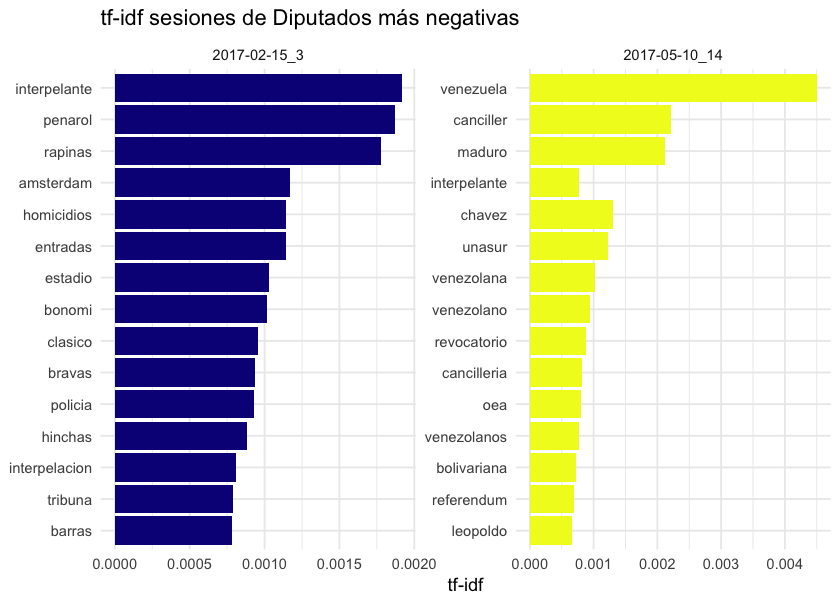
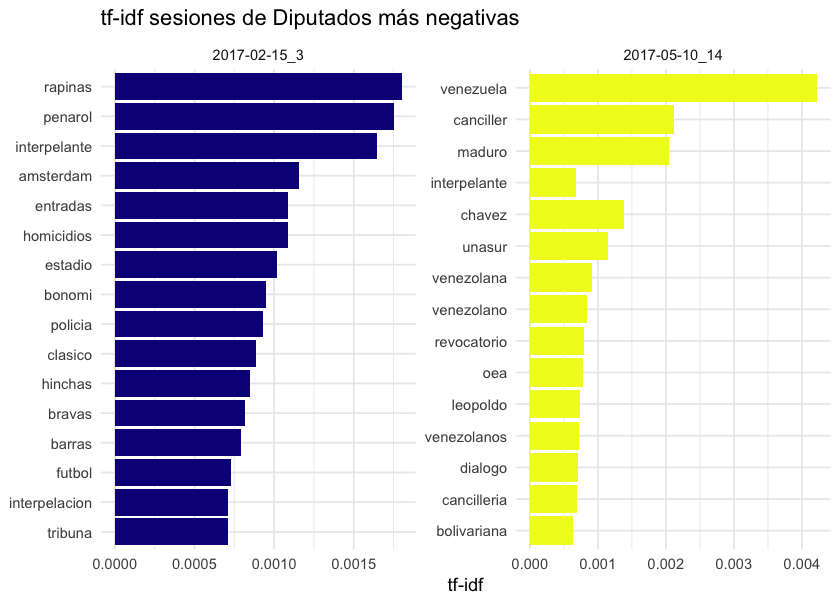
Added loading data and removed "\n" from RDS

diff --git a/_posts/2018-04-08-de-qué-se-habló-en-el-parlamento-uruguayo-desde-2017.md b/_posts/2018-04-08-de-qué-se-habló-en-el-parlamento-uruguayo-desde-2017.md
@@ -13,11 +13,32 @@ En el artículo pasado mostré cómo obtener los textos los Diarios de Sesiones 
   
 
 
-
-
 En el artículo pasado [mostré cómo se pueden obtener los textos de los Diarios de Sesiones]({% post_url 2018-04-03-scrapeando-las-sesiones-parlamentarias-de-uruguay %}). Primero obtuve los archivos pdf haciendo [*web scraping*](https://es.wikipedia.org/wiki/Web_scraping) y después extraje los textos de esos archivos.
 
 Ahora que tengo los datos, en este artículo analizo el texto de las sesiones de Diputados y Senadores desde 2017 usando el paquete [tidytext](https://github.com/juliasilge/tidytext), centrándome en el sentimiento y en identificar los temas tratados.
+
+# Levanto los datos
+
+Levanto los datos que obtuve del scraping de [mi repositorio de GitHub](https://github.com/d4tagirl/uruguayan_parliamentary_session_diary) y les saco los saltos de línea (los dejé porque para algún análisis podría servir tenerlos).
+
+
+```r
+library(dplyr)
+library(stringi)
+
+url_rds_diputados <- 'https://github.com/d4tagirl/uruguayan_parliamentary_session_diary/raw/master/data/pdf_diputados'
+diputados <- readRDS(url(url_rds_diputados)) 
+
+url_rds_senadores <- 'https://github.com/d4tagirl/uruguayan_parliamentary_session_diary/raw/master/data/pdf_senadores'
+senadores <- readRDS(url(url_rds_senadores)) 
+
+# saco los saltos de linea
+diputados <- diputados %>%
+  mutate(pdf = stri_replace_all(pdf, replacement = "", regex = "\\\n"))
+
+senadores <- senadores %>%
+  mutate(pdf = stri_replace_all(pdf, replacement = "", regex = "\\\n"))
+```
 
 # Con qué frecuencia se reunieron?
 
@@ -69,7 +90,6 @@ Primero transformo los datos para generar un dataframe con la cantidad de palabr
 
 
 ```r
-library(dplyr)
 library(tidytext)
 
 # calculo las palabras por mes
@@ -292,7 +312,7 @@ Para senadores:
 
 <img src="/figure/source/de-qué-se-habló-en-el-parlamento-uruguayo-desde-2017/2018-04-08-de-qué-se-habló-en-el-parlamento-uruguayo-desde-2017/unnamed-chunk-7-1.png" style="display: block; margin: auto;" />
 
-Para las sesiones de Senadores no se observa un comportamiento similar al de las de Diputados 🤷
+Para las sesiones de Senadores no se observa un comportamiento similar al de las de Diputados 🤷🏽♂
 
 # Sentimiento en las distintas sesiones
 
@@ -330,15 +350,15 @@ knitr::kable(
 <tbody>
   <tr>
    <td style="text-align:left;"> 2018-03-06_2 </td>
-   <td style="text-align:right;"> 177 </td>
-   <td style="text-align:right;"> 436 </td>
-   <td style="text-align:right;"> 259 </td>
+   <td style="text-align:right;"> 158 </td>
+   <td style="text-align:right;"> 379 </td>
+   <td style="text-align:right;"> 221 </td>
   </tr>
   <tr>
    <td style="text-align:left;"> 2017-12-20_1 </td>
-   <td style="text-align:right;"> 379 </td>
-   <td style="text-align:right;"> 577 </td>
-   <td style="text-align:right;"> 198 </td>
+   <td style="text-align:right;"> 336 </td>
+   <td style="text-align:right;"> 506 </td>
+   <td style="text-align:right;"> 170 </td>
   </tr>
 </tbody>
 </table>
@@ -373,15 +393,15 @@ knitr::kable(
 <tbody>
   <tr>
    <td style="text-align:left;"> 2017-05-10_14 </td>
-   <td style="text-align:right;"> 894 </td>
-   <td style="text-align:right;"> 406 </td>
-   <td style="text-align:right;"> -488 </td>
+   <td style="text-align:right;"> 792 </td>
+   <td style="text-align:right;"> 360 </td>
+   <td style="text-align:right;"> -432 </td>
   </tr>
   <tr>
    <td style="text-align:left;"> 2017-02-15_3 </td>
-   <td style="text-align:right;"> 882 </td>
-   <td style="text-align:right;"> 529 </td>
-   <td style="text-align:right;"> -353 </td>
+   <td style="text-align:right;"> 788 </td>
+   <td style="text-align:right;"> 484 </td>
+   <td style="text-align:right;"> -304 </td>
   </tr>
 </tbody>
 </table>
@@ -401,15 +421,15 @@ Las sesiones con sentimientos más positivos son las que aparecen a continuació
 <tbody>
   <tr>
    <td style="text-align:left;"> 2017-05-16_15 </td>
-   <td style="text-align:right;"> 56 </td>
-   <td style="text-align:right;"> 171 </td>
-   <td style="text-align:right;"> 115 </td>
+   <td style="text-align:right;"> 52 </td>
+   <td style="text-align:right;"> 158 </td>
+   <td style="text-align:right;"> 106 </td>
   </tr>
   <tr>
    <td style="text-align:left;"> 2017-11-28_44 </td>
-   <td style="text-align:right;"> 267 </td>
-   <td style="text-align:right;"> 343 </td>
-   <td style="text-align:right;"> 76 </td>
+   <td style="text-align:right;"> 243 </td>
+   <td style="text-align:right;"> 321 </td>
+   <td style="text-align:right;"> 78 </td>
   </tr>
 </tbody>
 </table>
@@ -428,15 +448,15 @@ Y las que tienen sentimiento más negativo las siguientes.
 <tbody>
   <tr>
    <td style="text-align:left;"> 2017-09-18_32 </td>
-   <td style="text-align:right;"> 633 </td>
-   <td style="text-align:right;"> 387 </td>
-   <td style="text-align:right;"> -246 </td>
+   <td style="text-align:right;"> 598 </td>
+   <td style="text-align:right;"> 364 </td>
+   <td style="text-align:right;"> -234 </td>
   </tr>
   <tr>
    <td style="text-align:left;"> 2017-06-07_18 </td>
-   <td style="text-align:right;"> 485 </td>
-   <td style="text-align:right;"> 259 </td>
-   <td style="text-align:right;"> -226 </td>
+   <td style="text-align:right;"> 458 </td>
+   <td style="text-align:right;"> 242 </td>
+   <td style="text-align:right;"> -216 </td>
   </tr>
 </tbody>
 </table>
@@ -510,4 +530,8 @@ Podés [ver acá el top 15 de las palabras con mayor tf-idf]({% post_url 2018-04
 
 # Fin! 
 
-Hay muchas más cosas que se pueden analizar, éstas fueron las que más me interesaron y por eso las comparto. [El análisis completo está en GitHub](https://github.com/d4tagirl/uruguayan_parliamentary_session_diary). Bienvenidas todas las sugerencias y comentarios!
+Hay muchas más cosas que se pueden analizar, éstas fueron las que más me interesaron y por eso las comparto. [El análisis completo está en GitHub](https://github.com/d4tagirl/uruguayan_parliamentary_session_diary). 
+
+Si querés analizar las sesiones fuera de R, o preferís ahorrarte el paso de hacer scraping, [acá tenés las sesiones de Diputados en formato csv](https://github.com/d4tagirl/uruguayan_parliamentary_session_diary/blob/master/data/diputados.csv), y [acá las sesiones de Senadores en formato csv](https://github.com/d4tagirl/uruguayan_parliamentary_session_diary/blob/master/data/senadores.csv) para hacer tus análisis! (Gracias [Rodrigo](https://twitter.com/rolaguna) por la sugerencia!)
+
+Bienvenidas todas las sugerencias y comentarios!
